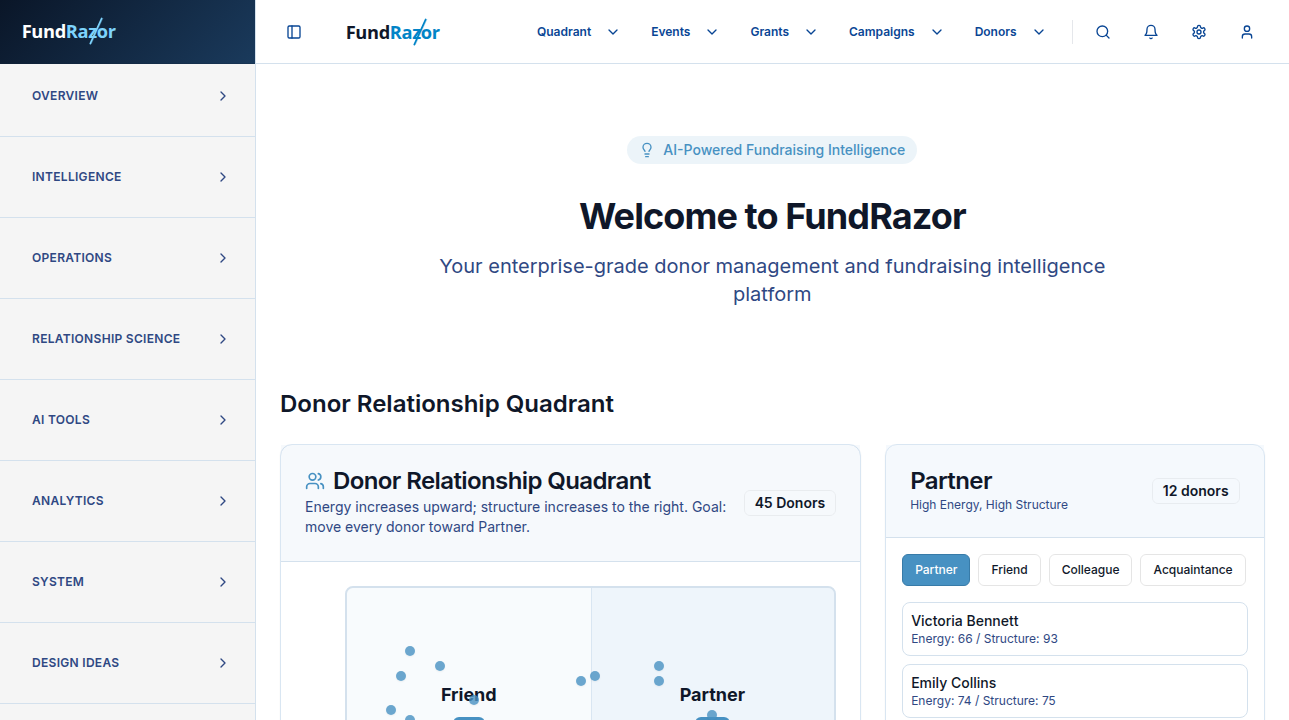
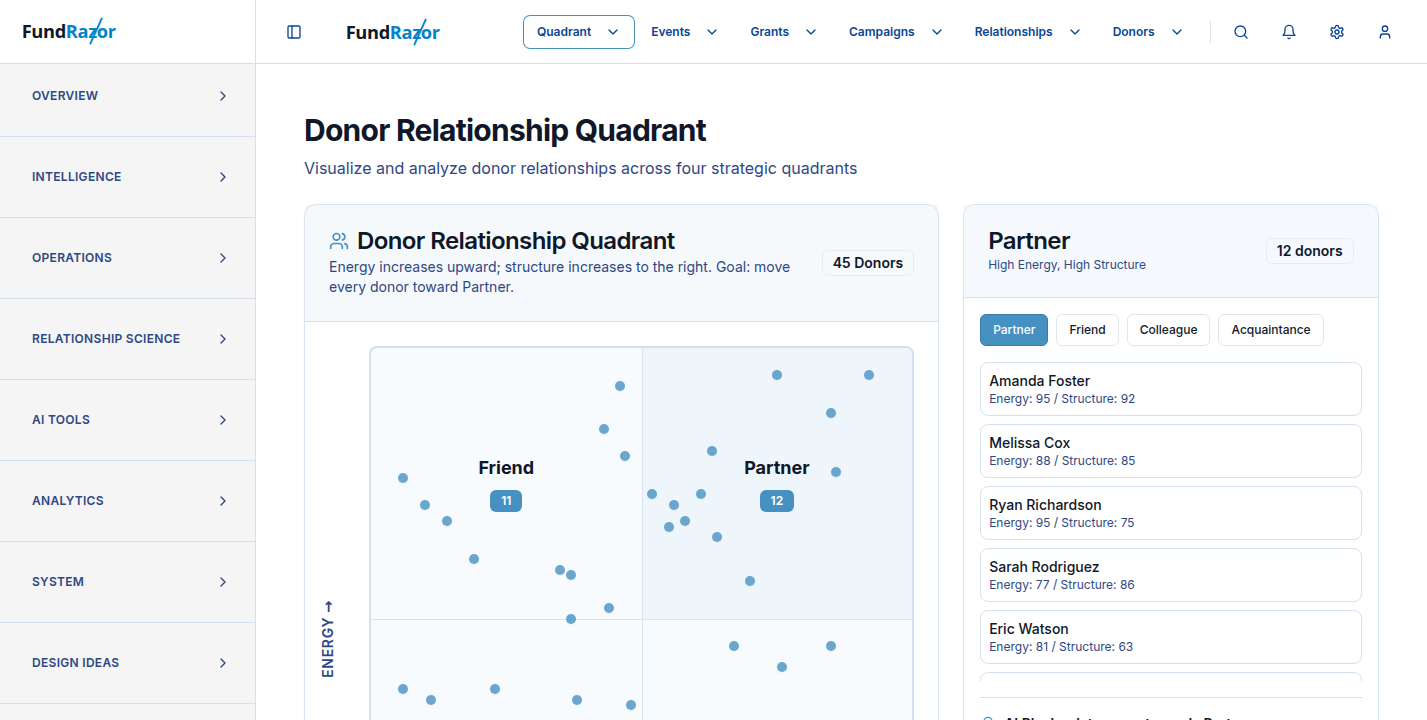
Create a dedicated page for the donor relationship quadrant
Create a new route for the Donor Quadrant page and update the navigation menu to include it as the first option in the Quadrant dropdown.

Replit-Commit-Author: Agent
Replit-Commit-Session-Id: 0f3e34c4-b0e3-4370-a7a8-df36dd164c1d
Replit-Commit-Checkpoint-Type: full_checkpoint
Replit-Commit-Event-Id: 8c0219f7-81d6-44e9-8336-5d860b2ccd07
Replit-Commit-Screenshot-Url: https://storage.googleapis.com/screenshot-production-us-central1/d90da612-419a-4103-915c-126ffc9c672b/0f3e34c4-b0e3-4370-a7a8-df36dd164c1d/81MgUNn

diff --git a/client/src/App.tsx b/client/src/App.tsx
@@ -38,6 +38,7 @@ import DonorsWithTabs from "@/pages/donors-with-tabs";
 import Donor360 from "@/pages/donor-360";
 import DonorDetail from "@/pages/donor-detail";
 import DonorCardShowcase from "@/pages/donor-card-showcase";
+import DonorQuadrant from "@/pages/donor-quadrant";
 import Pipeline from "@/pages/pipeline";
 import PipelineWithTabs from "@/pages/pipeline-with-tabs";
 import Grants from "@/pages/grants";
@@ -131,6 +132,7 @@ function Router() {
       <Route path="/navigation-mockups" component={NavigationMockups} />
       <Route path="/navigation-hybrid-mockup" component={NavigationHybridMockup} />
       <Route path="/icon-style-guide" component={IconStyleGuide} />
+      <Route path="/donor-quadrant" component={DonorQuadrant} />
       <Route path="/donors/card-showcase" component={DonorCardShowcase} />
       <Route path="/donors/major-gifts" component={DonorsWithTabs} />
       <Route path="/donors/lybunt" component={DonorsWithTabs} />
@@ -245,7 +247,7 @@ function App() {
                       </DropdownMenuTrigger>
                       <DropdownMenuContent align="start" className="w-48">
                         <DropdownMenuItem asChild>
-                          <Link href="/donors" className="cursor-pointer">
+                          <Link href="/donor-quadrant" className="cursor-pointer">
                             Donor Quadrant
                           </Link>
                         </DropdownMenuItem>

diff --git a/client/src/pages/home.tsx b/client/src/pages/home.tsx
@@ -1,7 +1,6 @@
 import { Card, CardContent } from "@/components/ui/card";
 import { Button } from "@/components/ui/button";
 import { Link } from "wouter";
-import DonorQuadrantMapper from "@/components/donor-quadrant-mapper";
 import { 
   TrendingUp, 
   Users, 
@@ -98,12 +97,6 @@ export default function Home() {
         <p className="text-xl text-muted-foreground max-w-2xl mx-auto">
           Your enterprise-grade donor management and fundraising intelligence platform
         </p>
-      </div>
-
-      {/* Donor Quadrant */}
-      <div>
-        <h2 className="text-2xl font-semibold mb-6">Donor Relationship Quadrant</h2>
-        <DonorQuadrantMapper />
       </div>
 
       {/* Quick Actions Grid */}

diff --git a/client/src/pages/donor-quadrant.tsx b/client/src/pages/donor-quadrant.tsx
@@ -1,0 +1,16 @@
+import DonorQuadrantMapper from "@/components/donor-quadrant-mapper";
+
+export default function DonorQuadrant() {
+  return (
+    <div className="container mx-auto p-6 space-y-6">
+      <div>
+        <h1 className="text-3xl font-bold tracking-tight">Donor Relationship Quadrant</h1>
+        <p className="text-muted-foreground mt-2">
+          Visualize and analyze donor relationships across four strategic quadrants
+        </p>
+      </div>
+      
+      <DonorQuadrantMapper />
+    </div>
+  );
+}
